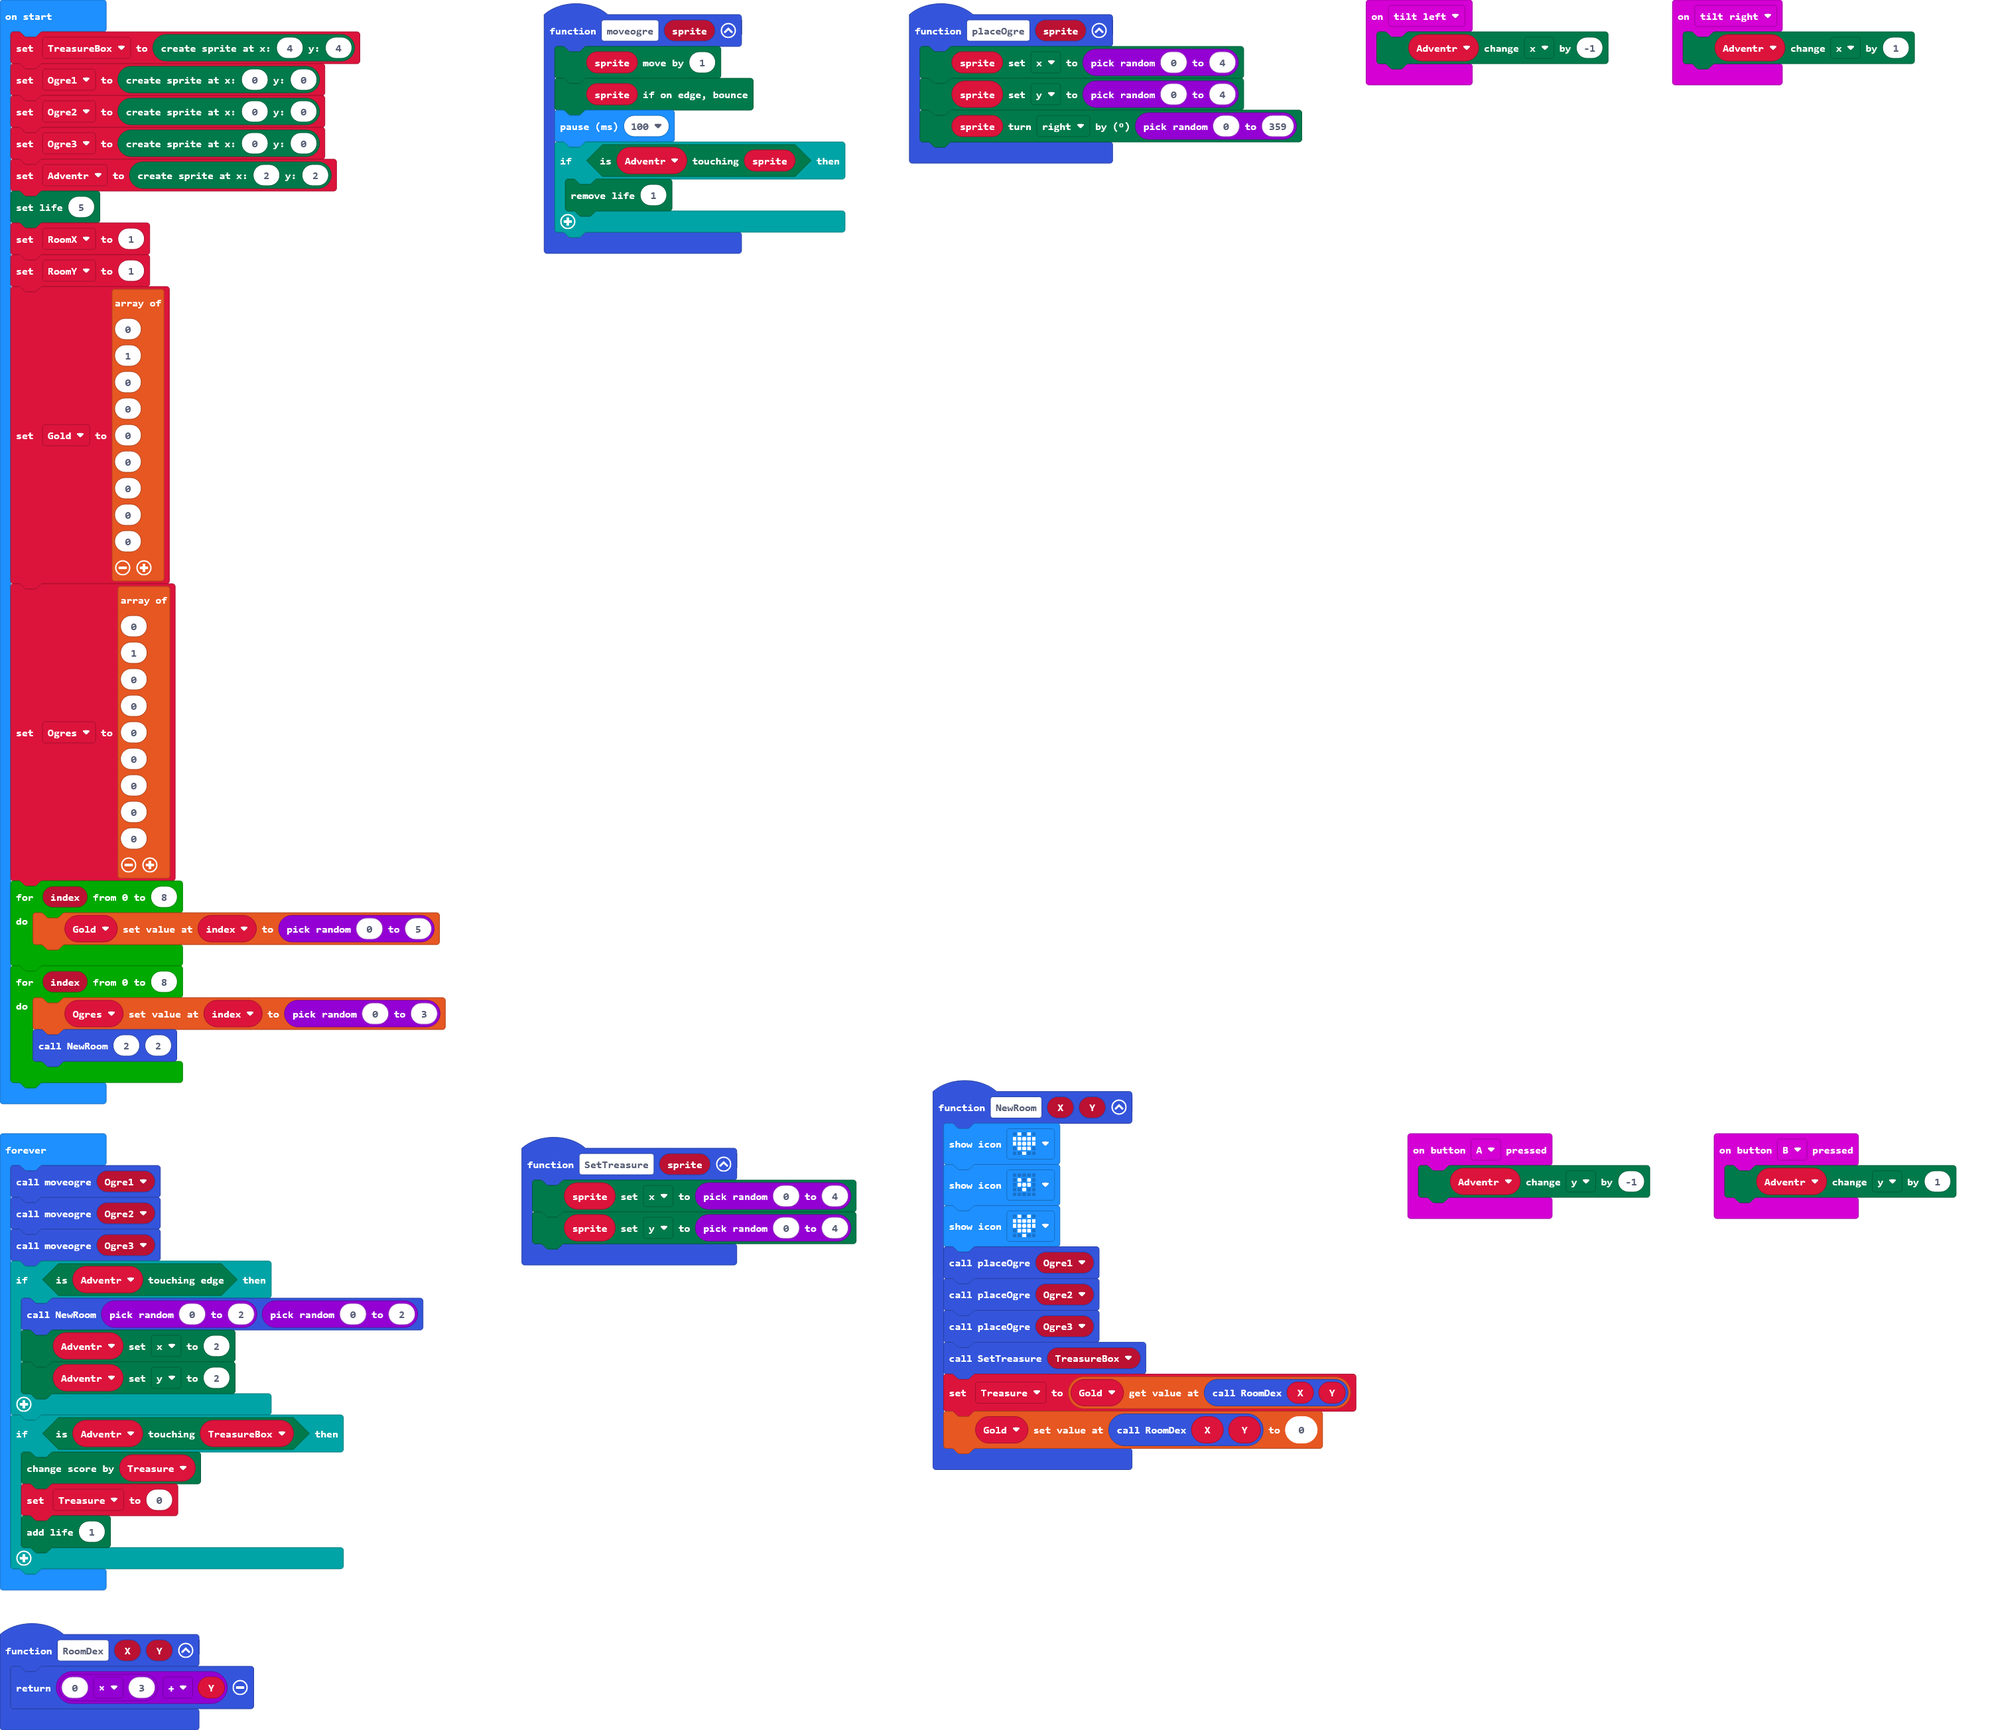
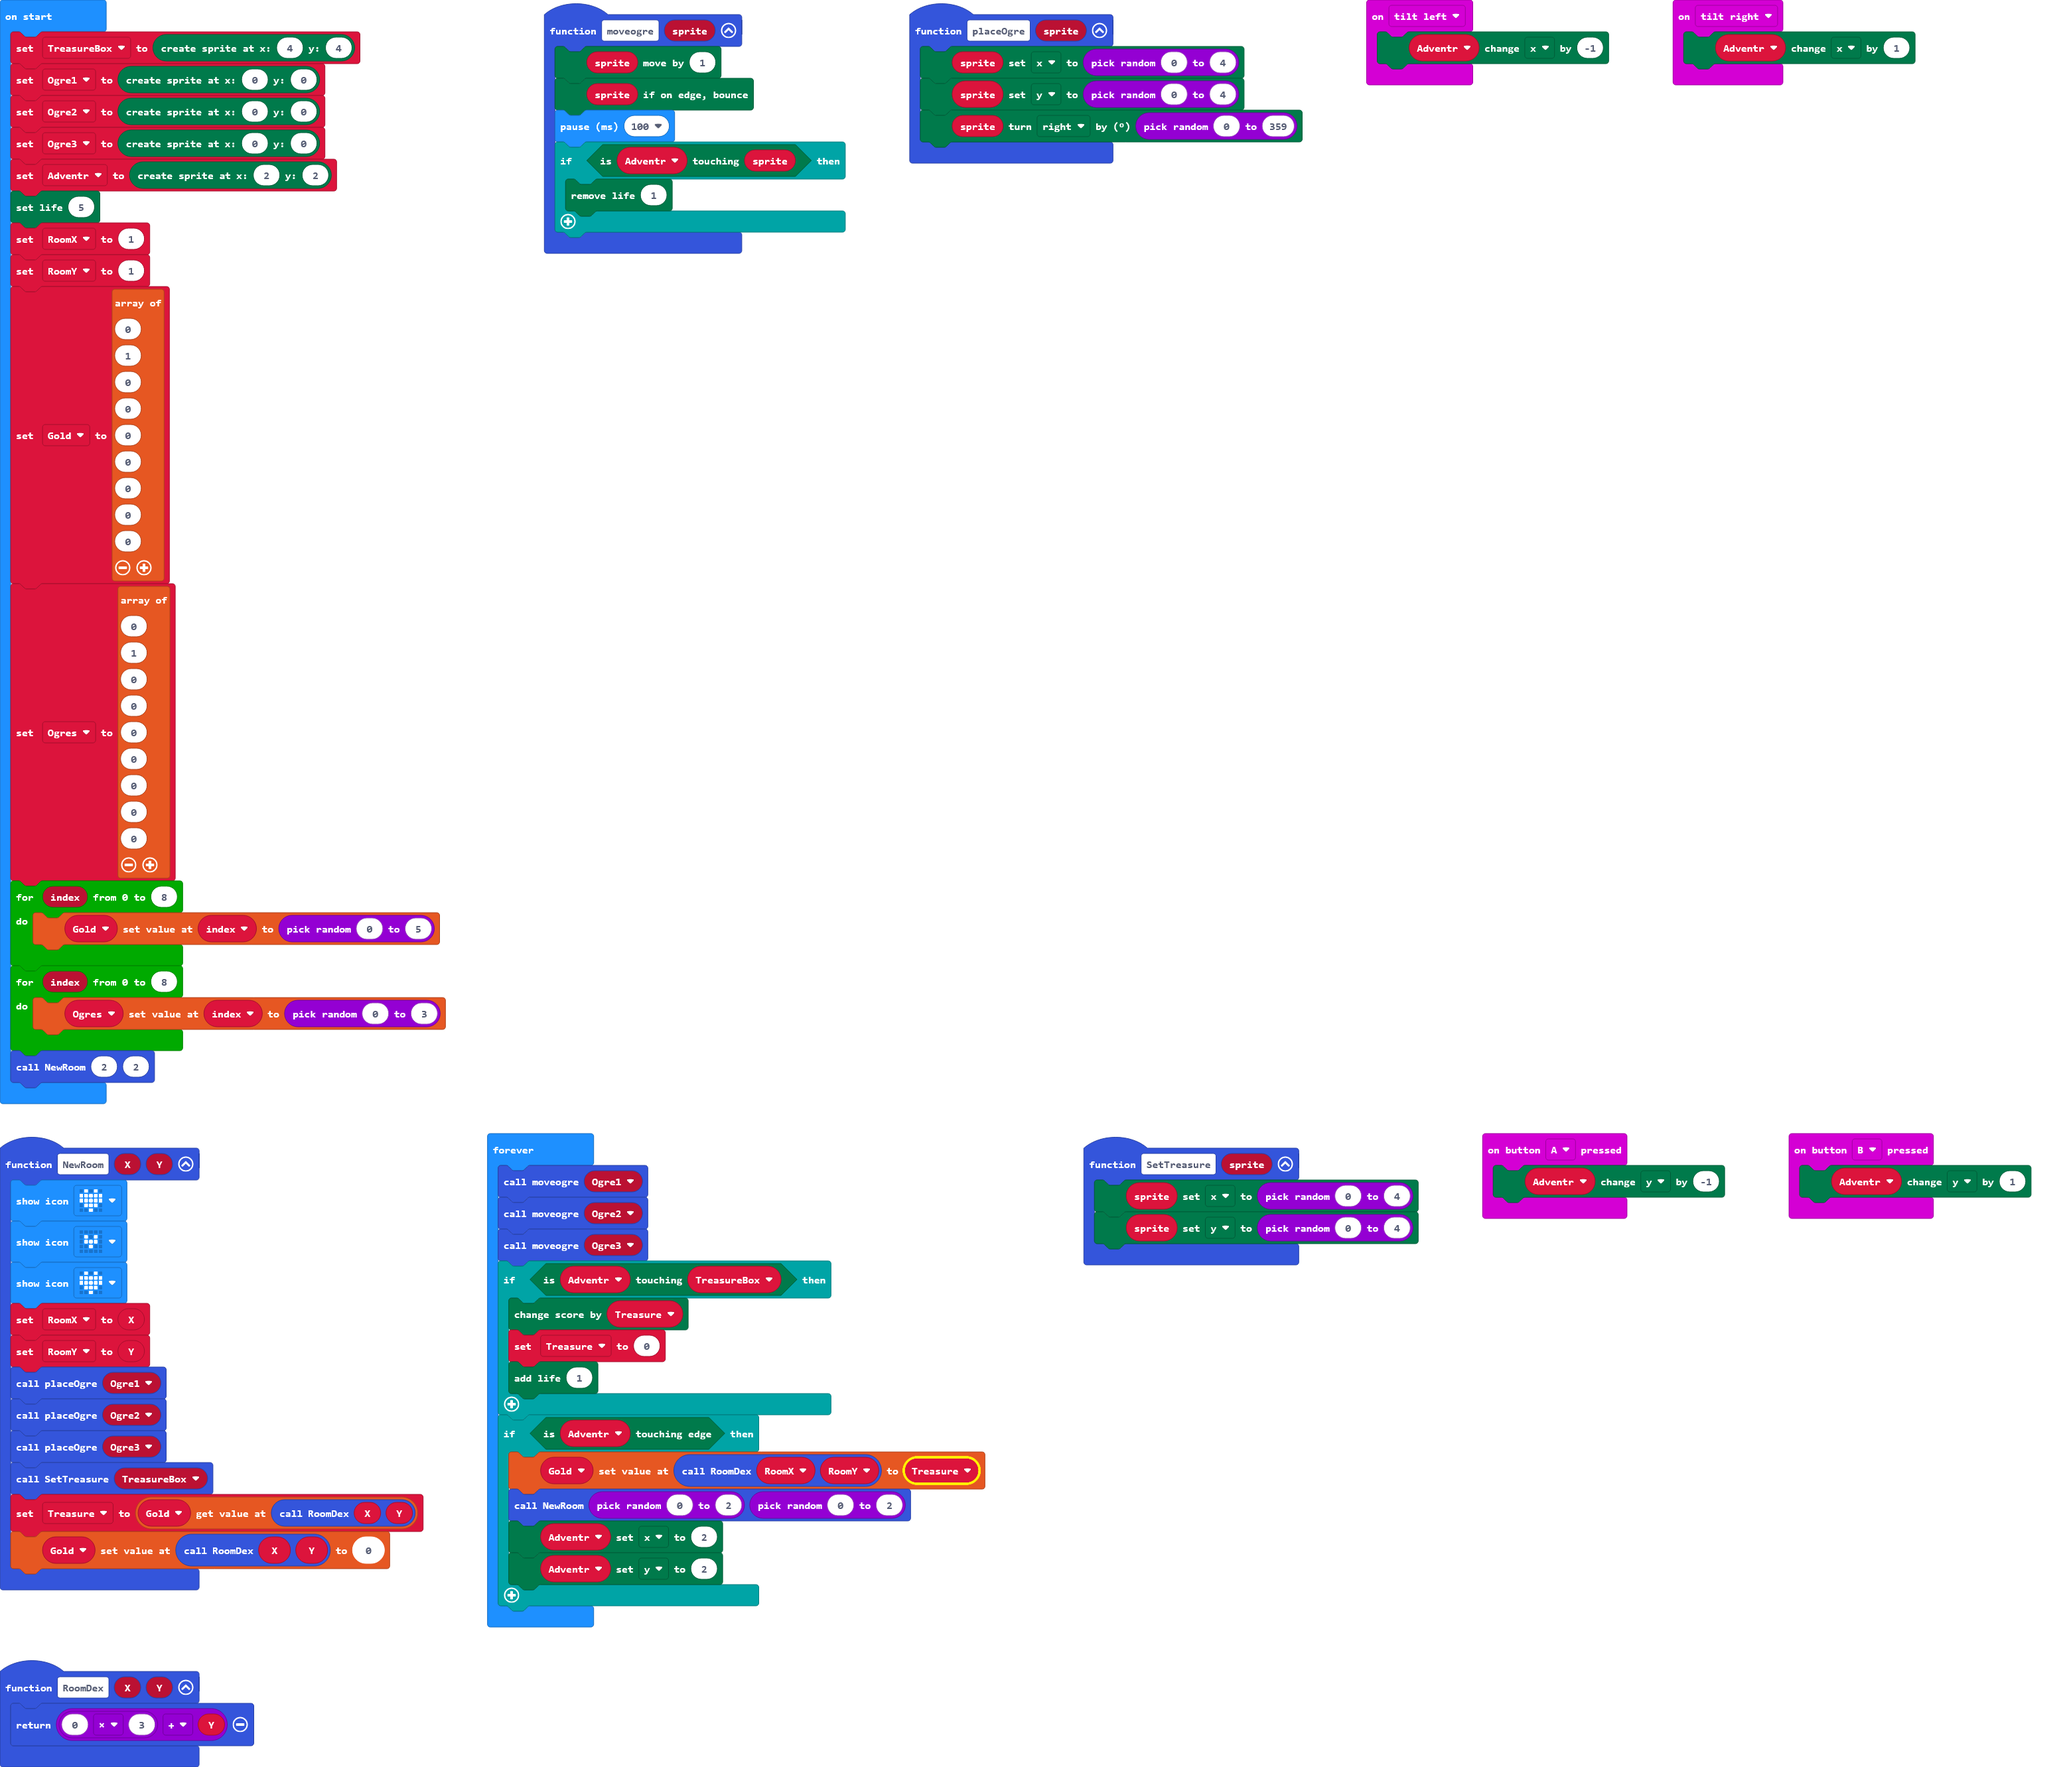
Update main.blocks, main.ts

Changed region(s): [[0.0, 0.0, 0.992, 1.0], [0.248, 0.0, 0.961, 0.1553]]

diff --git a/main.ts b/main.ts
@@ -24,6 +24,8 @@ function NewRoom (X: number, Y: number) {
     basic.showIcon(IconNames.Heart)
     basic.showIcon(IconNames.SmallHeart)
     basic.showIcon(IconNames.Heart)
+    RoomX = X
+    RoomY = Y
     placeOgre(Ogre1)
     placeOgre(Ogre2)
     placeOgre(Ogre3)
@@ -43,6 +45,8 @@ function SetTreasure (sprite: game.LedSprite) {
 }
 let Treasure = 0
 let Gold: number[] = []
+let RoomY = 0
+let RoomX = 0
 let Adventr: game.LedSprite = null
 let Ogre3: game.LedSprite = null
 let Ogre2: game.LedSprite = null
@@ -54,8 +58,8 @@ Ogre2 = game.createSprite(0, 0)
 Ogre3 = game.createSprite(0, 0)
 Adventr = game.createSprite(2, 2)
 game.setLife(5)
-let RoomX = 1
-let RoomY = 1
+RoomX = 1
+RoomY = 1
 Gold = [0, 1, 0, 0, 0, 0, 0, 0, 0]
 let Ogres = [0, 1, 0, 0, 0, 0, 0, 0, 0]
 for (let index = 0; index <= 8; index++) {
@@ -63,20 +67,21 @@ for (let index = 0; index <= 8; index++) {
 }
 for (let index = 0; index <= 8; index++) {
     Ogres[index] = randint(0, 3)
-    NewRoom(2, 2)
 }
+NewRoom(2, 2)
 basic.forever(function () {
     moveogre(Ogre1)
     moveogre(Ogre2)
     moveogre(Ogre3)
-    if (Adventr.isTouchingEdge()) {
-        NewRoom(randint(0, 2), randint(0, 2))
-        Adventr.set(LedSpriteProperty.X, 2)
-        Adventr.set(LedSpriteProperty.Y, 2)
-    }
     if (Adventr.isTouching(TreasureBox)) {
         game.addScore(Treasure)
         Treasure = 0
         game.addLife(1)
+    }
+    if (Adventr.isTouchingEdge()) {
+        Gold[RoomDex(RoomX, RoomY)] = Treasure
+        NewRoom(randint(0, 2), randint(0, 2))
+        Adventr.set(LedSpriteProperty.X, 2)
+        Adventr.set(LedSpriteProperty.Y, 2)
     }
 })
